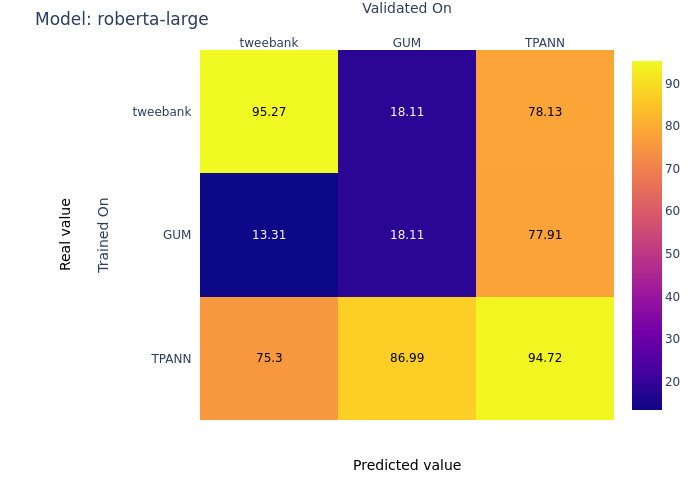
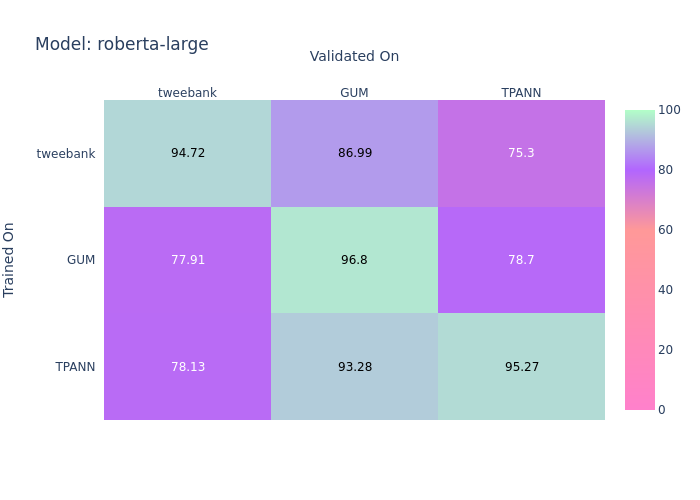
Rerun broken model, improve confusion matrix

diff --git a/plot_confusion_matrix.py b/plot_confusion_matrix.py
@@ -11,38 +11,23 @@ def plot_confusion(confusion_matrix, dataset_names, given_title='title'):
     cf_matrix_list_str = matrix_to_str(confusion_matrix)
     # print(f"cf_matrix_list_str: {cf_matrix_list_str}")
     fig = ff.create_annotated_heatmap(confusion_matrix, x=dataset_names[::-1], y=dataset_names,
-        annotation_text=cf_matrix_list_str, autocolorscale=True)
+        annotation_text=cf_matrix_list_str, colorscale=[
+            [0.0, 'rgb(255, 129, 204)'],
+            [.6, 'rgb(255, 153, 153)'],
+            # [.7, 'rgb(255, 153, 255)'],
+            [.8, 'rgb(178, 102, 255)'],
+            # [.9, 'rgb(151, 153, 255)'],
+            [1.0, 'rgb(178, 255, 200)'],
+            ])
     #https://stackoverflow.com/questions/60860121/plotly-how-to-make-an-annotated-confusion-matrix-using-a-heatmap
     # add title
     fig.update_layout(title_text=("Model: " + given_title),
                       xaxis = dict(title='Validated On'),
                       yaxis = dict(title='Trained On')
                      )
-
-    # add custom xaxis title
-    fig.add_annotation(dict(font=dict(color="black",size=14),
-                            x=0.5,
-                            y=-0.15,
-                            showarrow=False,
-                            text="Predicted value",
-                            xref="paper",
-                            yref="paper"))
-
-    # add custom yaxis titl
-    fig.add_annotation(dict(font=dict(color="black",size=14),
-                            x=-0.35,
-                            y=0.5,
-                            showarrow=False,
-                            text="Real value",
-                            textangle=-90,
-                            xref="paper",
-                            yref="paper"))
-
-    # adjust margins to make room for yaxis title
-    fig.update_layout(margin=dict(t=50, l=200))
-
     # add colorbar
     fig['data'][0]['showscale'] = True
+    fig.data[0].update(zmin=0, zmax=100)
     if not os.path.isdir("./Results"):
         os.mkdir("./Results")
     fig.write_image('./Results/' + given_title + '.png')
@@ -50,25 +35,22 @@ def plot_confusion(confusion_matrix, dataset_names, given_title='title'):
 
 def main(results):
     #Make dictionary into needed list
-    matrix = list()
     # model_names = ['bert-large-cased']
     # rows = ["tweebank", "TPANN", "ark"]
     print(results.keys())
     for model_used in results.keys():
-        matrix.append(list())
+        matrix = [[0.0 for _ in dataset_names] for _ in dataset_names]
         for dataset_trained_on in results[model_used].keys():
-            matrix[-1].append(list())
             for dataset_validated_on, acc in results[model_used][dataset_trained_on].items():
                 # print(f"model_used: {model_used}, dataset_trained_on: {dataset_trained_on}, dataset_validated_on: {dataset_validated_on}, acc: {results[model_used][dataset_trained_on][dataset_validated_on]}%")
-                matrix[-1][-1].append(acc)
+                matrix[dataset_names.index(dataset_trained_on)][dataset_names.index(dataset_validated_on)] = float(acc)
 
-        plot_confusion(matrix[-1], dataset_names, given_title=model_used.split('/')[-1])
+        plot_confusion(matrix[::-1][:], dataset_names, given_title=model_used.split('/')[-1])
 
-# Check the xy axis, its made in a hacky way so the order of the labels in the map matters0
 if __name__ == "__main__":
     # in_path = 'model_out.pkl'
     in_path = 'psuedolabel_out.pkl'
     with open(in_path, 'rb') as f:
         results = pickle.load(f)
-    results = {'bert-large-cased': {'TPANN': {'tweebank': 77.97622165191432, 'GUM': 84.81560499847608, 'TPANN': 92.44871235268441}, 'GUM': {'tweebank': 78.97135075682186, 'GUM': 97.59219750076197, 'TPANN': 15.102575294631166}, 'tweebank': {'tweebank': 94.23872623474571, 'GUM': 18.11033221578787, 'TPANN': 77.6080314273243}}}
+    # results = {'bert-large-cased': {'TPANN': {'tweebank': 77.97622165191432, 'GUM': 84.81560499847608, 'TPANN': 92.44871235268441}, 'GUM': {'tweebank': 78.97135075682186, 'GUM': 97.59219750076197, 'TPANN': 15.102575294631166}, 'tweebank': {'tweebank': 94.23872623474571, 'GUM': 18.11033221578787, 'TPANN': 77.6080314273243}}}
     main(results)

diff --git a/training.py b/training.py
@@ -200,10 +200,10 @@ def load_model(model_name, num_labels):
     return model.to(device)
 
 def training_loop(model, train_dataloader, val_dataloader, dataset_name, n_epochs, save_path):
-    optimizer = torch.optim.NAdam(model.parameters(), lr=5e-5, weight_decay=1e-4)
+    optimizer = torch.optim.NAdam(model.parameters(), lr=3e-5, weight_decay=1e-4)
 
     lr_scheduler = get_scheduler(
-        name="linear", optimizer=optimizer, num_warmup_steps=0, num_training_steps=get_num_examples(train_dataloader)*n_epochs
+        name="cosine", optimizer=optimizer, num_warmup_steps=0, num_training_steps=get_num_examples(train_dataloader)*n_epochs
     )
     val_accs = []
     torch.save(model.state_dict(), save_path)

diff --git a/pseudolabels.py b/pseudolabels.py
@@ -148,10 +148,10 @@ def validate_student(model_name, trained_student_path, train_dataset_name, train
 
 def run_pseudolabel_experiment():
   model_names = [
-    'gpt2',
-    'vinai/bertweet-large',
-    'roberta-large',
-    # 'bert-large-cased'
+    'bert-large-cased',
+    # 'gpt2',
+    # 'vinai/bertweet-large',
+    # 'roberta-large',
   ]
   result_dict = dict()
   for model_name in model_names:
@@ -206,6 +206,7 @@ def run_pseudolabel_experiment():
   return result_dict
 
 def main():
+  print("starting")
   if not os.path.exists('pseudolabels'):
       os.mkdir('pseudolabels')
   if not os.path.exists('models'):
